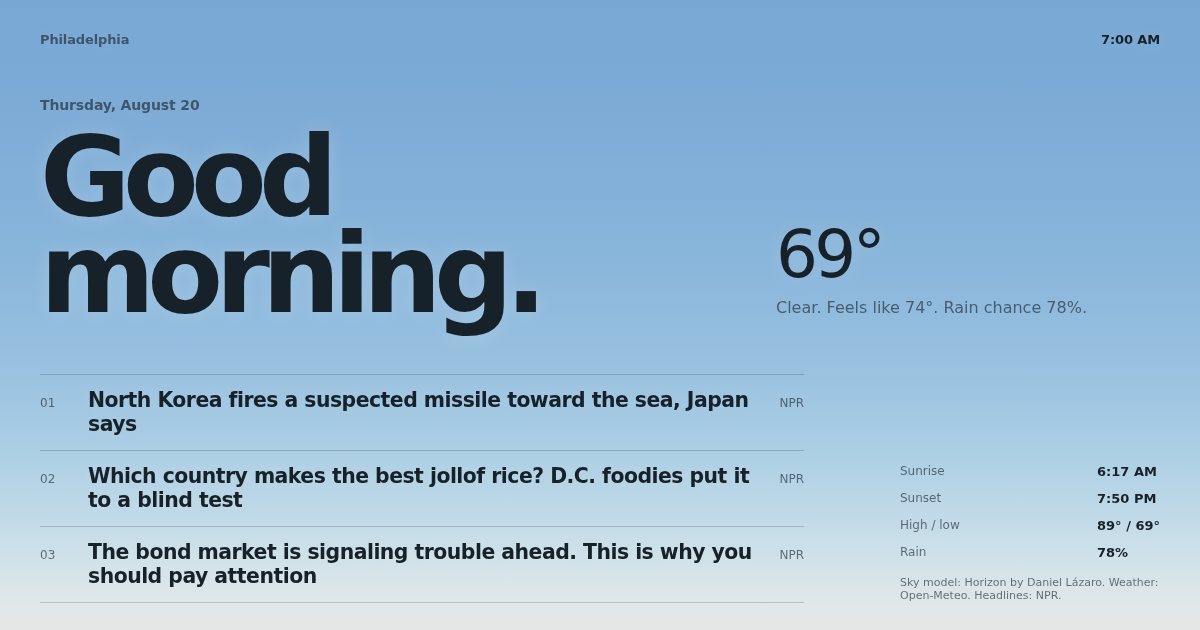
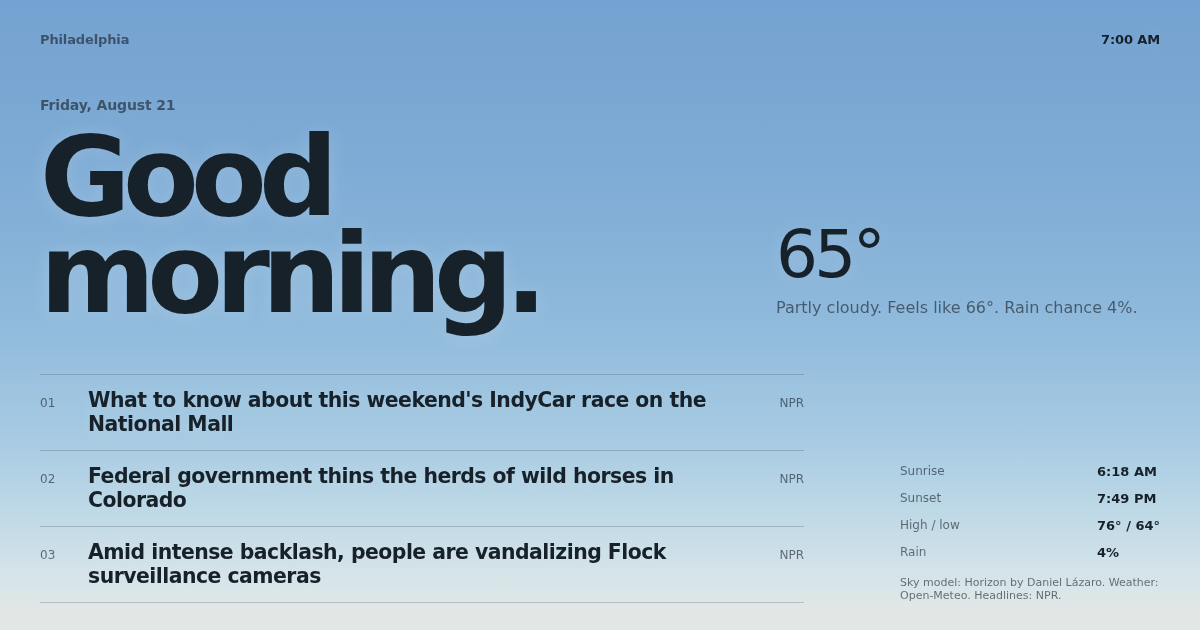
chore: refresh morning briefing 2026-08-21

diff --git a/index.html b/index.html
@@ -5,17 +5,17 @@
   <meta name="viewport" content="width=device-width, initial-scale=1">
   <meta name="color-scheme" content="light dark">
   <meta name="theme-color" content="#7595b2">
-  <meta name="description" content="Philadelphia morning briefing for 2026-08-20: Clear. Feels like 74°. Rain chance 78%.">
+  <meta name="description" content="Philadelphia morning briefing for 2026-08-21: Partly cloudy. Feels like 66°. Rain chance 4%.">
   <meta property="og:type" content="website">
   <meta property="og:title" content="Philadelphia morning briefing">
-  <meta property="og:description" content="Clear. Feels like 74°. Rain chance 78%. Three stories for Thursday, August 20.">
-  <meta property="og:url" content="https://evan-luther.github.io/morning-briefing/?date=2026-08-20">
-  <meta property="og:image" content="https://evan-luther.github.io/morning-briefing/briefing.png?v=2026-08-20">
+  <meta property="og:description" content="Partly cloudy. Feels like 66°. Rain chance 4%. Three stories for Friday, August 21.">
+  <meta property="og:url" content="https://evan-luther.github.io/morning-briefing/?date=2026-08-21">
+  <meta property="og:image" content="https://evan-luther.github.io/morning-briefing/briefing.png?v=2026-08-21">
   <meta property="og:image:width" content="1200">
   <meta property="og:image:height" content="630">
   <meta property="og:image:alt" content="Philadelphia morning sky with today's briefing">
   <meta name="twitter:card" content="summary_large_image">
-  <title>Morning Briefing | Thursday, August 20</title>
+  <title>Morning Briefing | Friday, August 21</title>
   <style>
     :root {
       --horizon: linear-gradient(to bottom, #7595b2, #dbb69d);
@@ -195,27 +195,27 @@
 
     <section class="lead" aria-labelledby="greeting">
       <div>
-        <p class="date">Thursday, August 20</p>
+        <p class="date">Friday, August 21</p>
         <h1 id="greeting">Good morning.</h1>
       </div>
       <div class="weather">
-        <div class="temperature">69°</div>
-        <p>Clear. Feels like 74°. Rain chance 78%.</p>
+        <div class="temperature">65°</div>
+        <p>Partly cloudy. Feels like 66°. Rain chance 4%.</p>
       </div>
     </section>
 
     <section class="briefing" aria-label="Today's public briefing">
       <div class="stories">
-        <a class="story" href="https://www.npr.org/2026/08/20/g-s1-139381/north-korea-suspected-missile" target="_blank" rel="noreferrer"><span class="story-index">01</span><span class="story-title">North Korea fires a suspected missile toward the sea, Japan says</span><span class="story-source">NPR</span></a>
-        <a class="story" href="https://www.npr.org/2026/08/20/nx-s1-5936436/which-country-makes-the-best-jollof-rice-d-c-foodies-put-it-to-a-blind-test" target="_blank" rel="noreferrer"><span class="story-index">02</span><span class="story-title">Which country makes the best jollof rice? D.C. foodies put it to a blind test</span><span class="story-source">NPR</span></a>
-        <a class="story" href="https://www.npr.org/2026/08/20/nx-s1-5937600/economy-bonds-inflation-debt-consumers" target="_blank" rel="noreferrer"><span class="story-index">03</span><span class="story-title">The bond market is signaling trouble ahead. This is why you should pay attention</span><span class="story-source">NPR</span></a>
+        <a class="story" href="https://www.npr.org/2026/08/21/nx-s1-5939443/dc-indycar-race-overview-watch-politics" target="_blank" rel="noreferrer"><span class="story-index">01</span><span class="story-title">What to know about this weekend&#x27;s IndyCar race on the National Mall</span><span class="story-source">NPR</span></a>
+        <a class="story" href="https://www.npr.org/2026/08/21/nx-s1-5920407/colorado-wild-horses-federal-government-roundup" target="_blank" rel="noreferrer"><span class="story-index">02</span><span class="story-title">Federal government thins the herds of wild horses in Colorado</span><span class="story-source">NPR</span></a>
+        <a class="story" href="https://www.npr.org/2026/08/21/nx-s1-5939851/flock-cameras-police-block-surveillance-vandalize" target="_blank" rel="noreferrer"><span class="story-index">03</span><span class="story-title">Amid intense backlash, people are vandalizing Flock surveillance cameras</span><span class="story-source">NPR</span></a>
       </div>
       <div>
         <div class="daylight">
-          <span>Sunrise</span><strong>6:17 AM</strong>
-          <span>Sunset</span><strong>7:50 PM</strong>
-          <span>High / low</span><strong>89° / 69°</strong>
-          <span>Rain</span><strong>78%</strong>
+          <span>Sunrise</span><strong>6:18 AM</strong>
+          <span>Sunset</span><strong>7:49 PM</strong>
+          <span>High / low</span><strong>76° / 64°</strong>
+          <span>Rain</span><strong>4%</strong>
         </div>
         <div class="attribution">Sky model: Horizon by Daniel Lázaro. Weather: Open-Meteo. Headlines: NPR.</div>
       </div>
